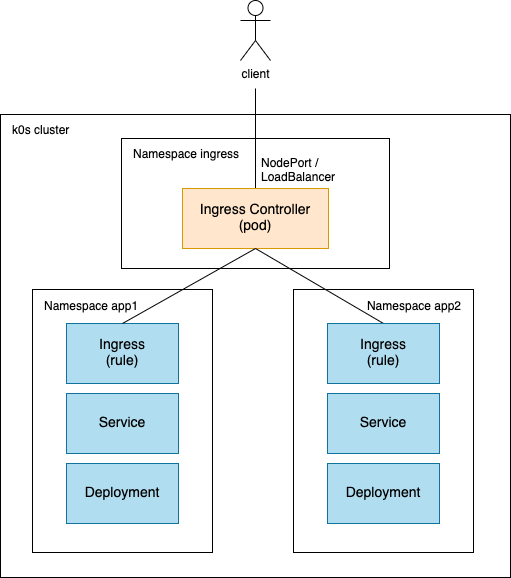
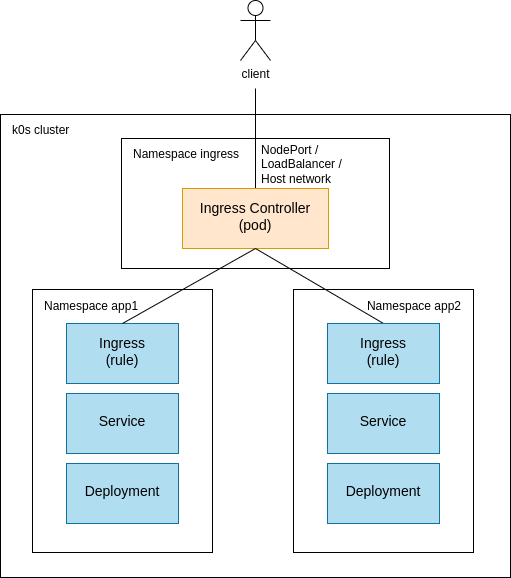
:Ingress controller docs update
- Added another option for configuring NGINX Ingress controller: host network.

diff --git a/docs/examples/nginx-ingress.md b/docs/examples/nginx-ingress.md
@@ -10,11 +10,11 @@ Kubernetes offers multiple options for exposing services to external networks. T
 
 **LoadBalancer** is a service, which is typically implemented by the cloud provider as an external service (with additional cost). Load balancers can also be installed internally in the Kubernetes cluster with MetalLB, which is typically used for bare-metal deployments. Load balancer provides a single IP address to access your services, which can run on multiple nodes.
 
-**Ingress controller** helps to consolidate routing rules of multiple applications into one entity. Ingress controller is exposed to an external network with the help of NodePort or LoadBalancer. You can also use Ingress controller to terminate TLS for your domain in one place, instead of terminating TLS for each application separately.
+**Ingress controller** helps to consolidate routing rules of multiple applications into one entity. Ingress controller is exposed to an external network with the help of NodePort, LoadBalancer or host network. You can also use Ingress controller to terminate TLS for your domain in one place, instead of terminating TLS for each application separately.
 
 ## NGINX Ingress Controller
 
-NGINX Ingress Controller is a very popular Ingress for Kubernetes. In many cloud environments, it can be exposed to an external network by using the load balancer offered by the cloud provider. However, cloud load balancers are not necessary. Load balancer can also be implemented with MetalLB, which can be deployed in the same Kubernetes cluster. Another option to expose the Ingress controller to an external network is to use NodePort. Both of these alternatives are described in more detail on below, with separate examples.
+NGINX Ingress Controller is a very popular Ingress for Kubernetes. In many cloud environments, it can be exposed to an external network by using the load balancer offered by the cloud provider. However, cloud load balancers are not necessary. Load balancer can also be implemented with MetalLB, which can be deployed in the same Kubernetes cluster. Another option to expose the Ingress controller to an external network is to use NodePort. The third option is to use host network. All of these alternatives are described in more detail on below, with separate examples.
 
 ![k0s_ingress_controller](../img/k0s_ingress_controller.png)
 
@@ -22,10 +22,10 @@ NGINX Ingress Controller is a very popular Ingress for Kubernetes. In many cloud
 
 Installing NGINX using NodePort is the most simple example for Ingress Controller as we can avoid the load balancer dependency. NodePort is used for exposing the NGINX Ingress to the external network.
 
-1. Install NGINX Ingress Controller (using the official manifests of version `v1.0.0` by the ingress-nginx project, supports Kubernetes versions >= `v1.19`)
+1. Install NGINX Ingress Controller (using the official manifests by the ingress-nginx project)
 
     ```shell
-    kubectl apply -f https://raw.githubusercontent.com/kubernetes/ingress-nginx/controller-v1.0.0/deploy/static/provider/baremetal/deploy.yaml
+    kubectl apply -f https://raw.githubusercontent.com/kubernetes/ingress-nginx/controller-v1.1.3/deploy/static/provider/baremetal/deploy.yaml
     ```
 
 2. Check that the Ingress controller pods have started
@@ -233,9 +233,38 @@ In this example you'll install NGINX Ingress controller using LoadBalancer on k0
 
     If you are successful, you should see ```<html><body><h1>It works!</h1></body></html>```.
 
+### Install NGINX using host network
+
+The host network option exposes Ingress directly using the worker nodes' IP addresses. It also allows you to use ports 80 and 443. This option doesn't use any Service objects (ClusterIP, NodePort, LoadBalancer) and it has the limitation that only one Ingress controller Pod may be scheduled on each cluster node.
+
+1. Download the official NGINX Ingress Controller manifests:
+
+    ```shell
+    wget https://raw.githubusercontent.com/kubernetes/ingress-nginx/controller-v1.1.3/deploy/static/provider/baremetal/deploy.yaml
+    ```
+
+2. Edit deploy.yaml. Find the Deployment ingress-nginx-controller and enable the host network option by adding the hostNetwork line:
+
+    ```shell
+    spec:
+      template:
+        spec:
+          hostNetwork: true
+    ```
+
+    You can also remove the Service ingress-nginx-controller completely, because it won't be needed.
+
+3. Install Ingress
+
+    ```shell
+    kubectl apply -f deploy.yaml
+    ```
+
+4. Try to connect to the Ingress controller, deploy a test application and verify the access. These steps are similar to the previous install methods.
+
 ## Additional information
 
-For more information about NGINX Ingress Controller installation, take a look at the [official ingress-nginx documentation](https://kubernetes.github.io/ingress-nginx/deploy/).
+For more information about NGINX Ingress Controller installation, take a look at the official ingress-nginx [installation guide](https://kubernetes.github.io/ingress-nginx/deploy/) and [bare-metal considerations](https://kubernetes.github.io/ingress-nginx/deploy/baremetal/).
 
 ## Alternative examples for Ingress Controllers on k0s
 
